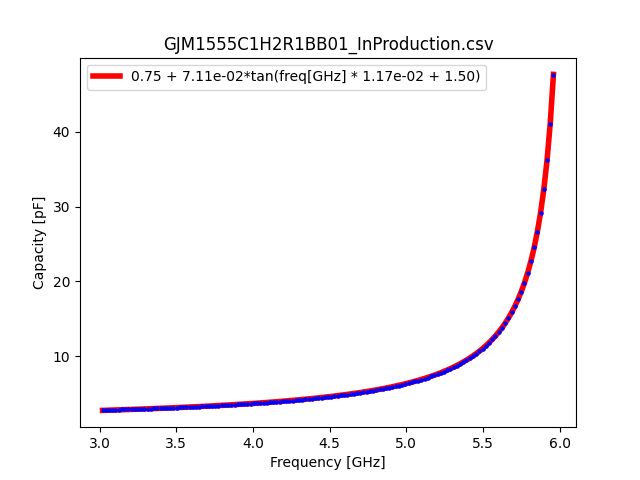
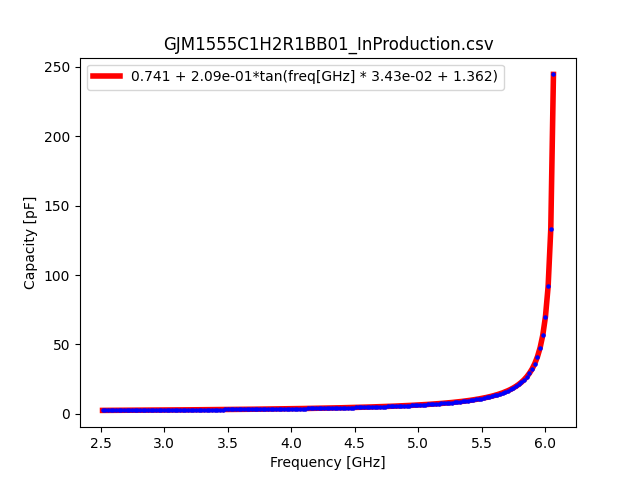
:+1: Update :

diff --git a/fitting.py b/fitting.py
@@ -7,8 +7,8 @@ import glob
 from update_list import get_capacity_from_csv
 
 
-freq_min = 3e9
-freq_max = 6e9
+freq_min = 2.5e9
+freq_max = 7e9
 
 files = glob.glob("csv/*")
 for file_name in files:
@@ -66,7 +66,7 @@ for file_name in files:
 
     plt.scatter(freq, cap, s=5, c='blue', zorder=2)
     # plt.plot(freq, func(freq, *popt), lw=4, c='red', zorder=1, label='{:.2E} + {:.2E}*exp(freq[GHz] * {:.2E} + {:.2E})'.format(*popt))
-    plt.plot(freq, func(freq, *popt), lw=4, c='red', zorder=1, label='{:.2f} + {:.2e}*tan(freq[GHz] * {:.2e} + {:.2f})'.format(*popt))
+    plt.plot(freq, func(freq, *popt), lw=4, c='red', zorder=1, label='{:.3f} + {:.2e}*tan(freq[GHz] * {:.2e} + {:.3f})'.format(*popt))
     plt.title(file_name.split('/')[-1])
     plt.xlabel('Frequency [GHz]')
     plt.ylabel('Capacity [pF]')
